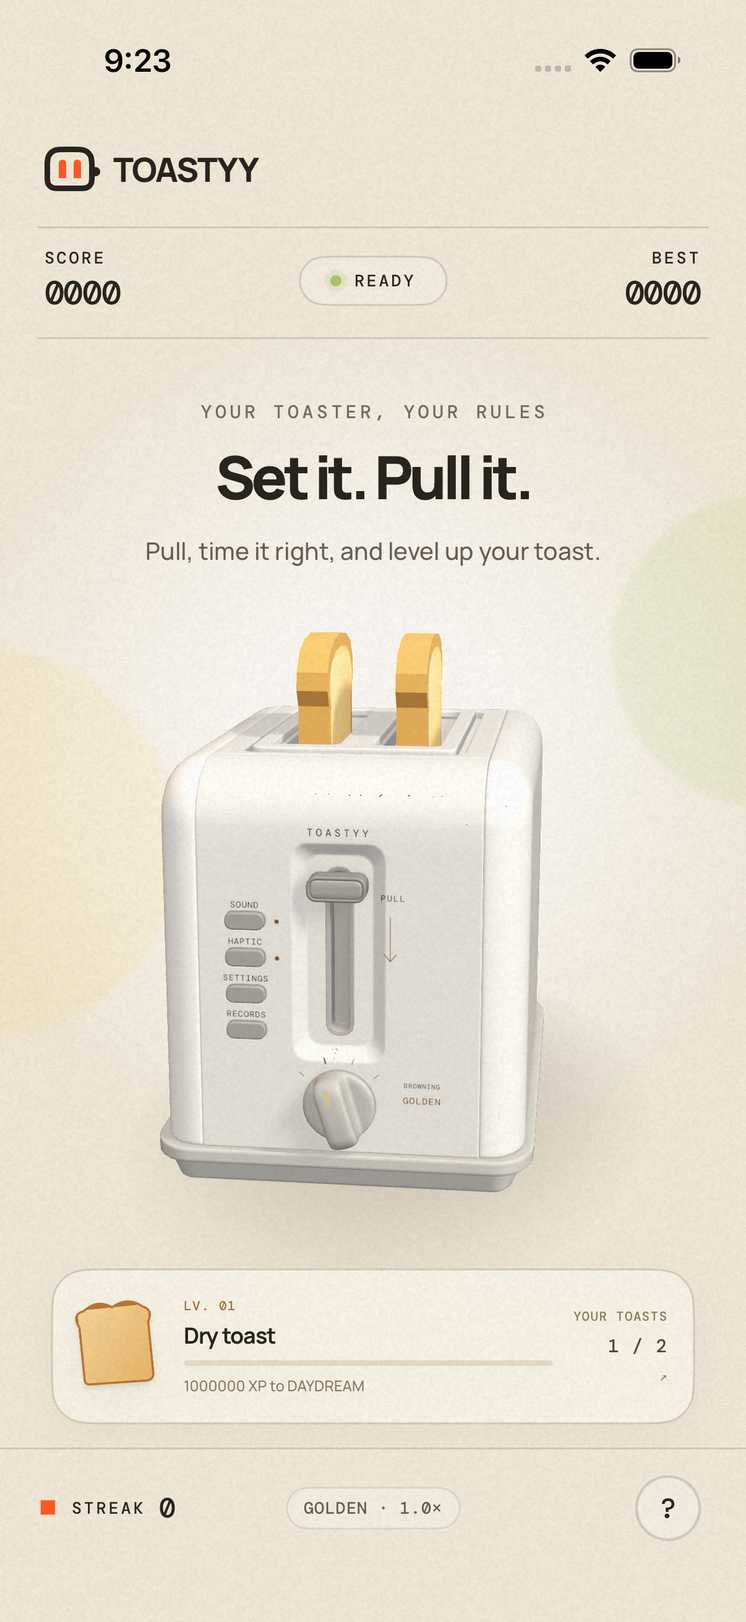
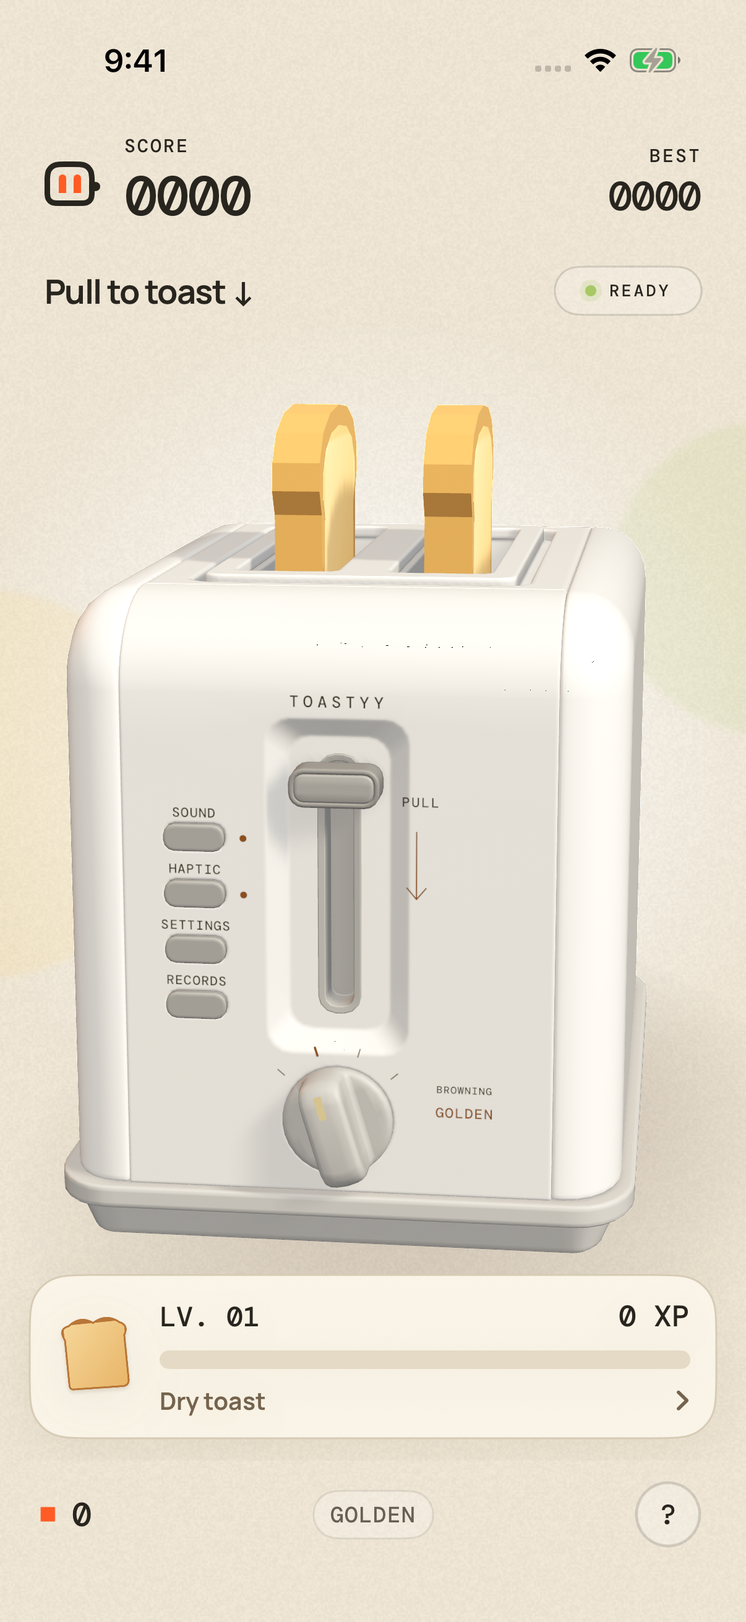
Prepare launch handoff, current store screenshots and owner checklist

diff --git a/ios/AppStore/launch-kit/todo.html b/ios/AppStore/launch-kit/todo.html
@@ -1,0 +1,5 @@
+<!doctype html><html lang="de"><head><meta charset="utf-8"><meta name="viewport" content="width=device-width,initial-scale=1"><title>Toastyy · Deine Launch-To-dos</title><style>
+:root{color-scheme:light dark;--background:light-dark(#f7f3e9,#171714);--foreground:light-dark(#29271f,#f5efdf);--muted:light-dark(#686354,#bbb49f);--card:light-dark(#fffaf0,#24231e);--border:light-dark(#ddd4c1,#494438);--primary:light-dark(#a83712,#ffac88);--success:light-dark(#496324,#c0d991);--radius:18px;--font-sans:system-ui,-apple-system,sans-serif}*{box-sizing:border-box}body{margin:0;color:var(--foreground);font-family:var(--font-sans);font-size:15px;line-height:1.55}.wrap{max-width:760px;margin:0 auto}header{padding:12px 0 18px}.eyebrow{color:var(--primary);font-size:11px;letter-spacing:.15em;font-weight:800}h1{font-size:clamp(29px,6vw,42px);line-height:1.1;letter-spacing:-.055em;margin:9px 0 12px}p{margin:9px 0}.muted{color:var(--muted)}.status{background:var(--card);padding:16px;border:1px solid var(--border);border-radius:var(--radius);margin:12px 0 22px}.status strong{color:var(--success)}.status p{margin:5px 0;font-size:13px}.progress-row{display:flex;justify-content:space-between;align-items:center;gap:12px;font-size:13px;margin:0 0 8px}progress{width:100%;height:9px;accent-color:var(--primary);display:block}.task{display:grid;grid-template-columns:24px 1fr;gap:12px;background:var(--card);padding:16px;border:1px solid var(--border);border-radius:var(--radius);margin:9px 0}.task>input{width:21px;height:21px;margin:17px 0 0;accent-color:var(--success);cursor:pointer}summary{cursor:pointer;list-style:none;display:flex;flex-direction:column;gap:3px;padding-right:20px;position:relative}summary::-webkit-details-marker{display:none}summary:after{content:'+';position:absolute;right:0;top:16px;color:var(--muted);font-size:21px}details[open] summary:after{content:'−'}.tag{color:var(--muted);font-size:10px;letter-spacing:.08em;text-transform:uppercase}.task-title{font-weight:700;font-size:16px;line-height:1.4}.task.done .task-title{text-decoration:line-through;color:var(--muted)}.detail{font-size:14px;padding-top:12px;color:var(--muted)}.detail strong{color:var(--foreground)}a{color:var(--primary);text-underline-offset:3px}code{font-size:12px;overflow-wrap:anywhere}.criterion{border-top:1px solid var(--border);padding-top:10px;color:var(--foreground)}.notes{margin-top:22px}label[for=notes]{font-weight:700}textarea{margin-top:8px;display:block;width:100%;min-height:95px;resize:vertical;border:1px solid var(--border);border-radius:12px;background:var(--card);color:var(--foreground);padding:12px;font:inherit}.actions{display:flex;flex-wrap:wrap;gap:9px;margin:14px 0}button,.button{font:inherit;border:1px solid var(--border);border-radius:10px;background:var(--card);color:var(--foreground);padding:9px 13px;cursor:pointer;text-decoration:none}.foot{font-size:12px;color:var(--muted);padding:6px 0 18px}:focus-visible{outline:3px solid var(--primary);outline-offset:4px}@media print{details>.detail{display:block}.actions{display:none}.task{break-inside:avoid}body{font-size:12px}}@media(max-width:430px){.task{padding:13px;gap:9px}.task-title{font-size:15px}}
+</style></head><body><main class="wrap"><header><span class="eyebrow">TOASTYY · RELEASE 1.0</span><h1>Dein Launch-Nachmittag.</h1><p class="muted">Die App steht. Hier sind die letzten Aufgaben – aufklappen, erledigen, abhaken.</p></header><section class="status" aria-label="Vorbereitungsstand"><strong>Vorbereitet: Build 5 hochgeladen, Screenshots und Texte fertig.</strong><p>16 Gameplay-Tests zuvor erfolgreich; beide aktuellen UI-Tests auf iPhone 17 Pro bestanden. Support-Seite, Publisher-Datei und Datenschutz-Arbeitsblatt liegen im Paket.</p><p>Offen: Apple-/Google-Anmeldung, Gerätetests, Website-Veröffentlichung und Produktionsfreigabe. Kontostatus/Apple-Verarbeitung heute nicht verifiziert. Stand: 10. November 2026.</p></section><div class="progress-row"><span id="count" role="status" aria-live="polite">0 von 8 erledigt</span><button type="button" id="expand">Alle öffnen</button></div><progress id="progress" max="8" value="0" aria-label="Dein Fortschritt"></progress><article class="task"><input type="checkbox" id="apple" aria-label="Erledigt: Apple anmelden &amp; Build 5 prüfen"><details><summary><span class="tag">Zugang</span><span class="task-title">Apple anmelden &amp; Build 5 prüfen</span></summary><div class="detail"><p>In App Store Connect anmelden, nötige Zwei-Faktor-Bestätigung selbst erledigen. Unter Toastyy → TestFlight prüfen, dass <strong>1.0.0 (5)</strong> verarbeitet und deiner internen Testgruppe zugewiesen ist. Bei fehlender Einladung deine Apple-ID als internen Tester zuordnen.</p><p><a href="https://appstoreconnect.apple.com/apps/6826357624/testflight/ios" target="_blank" rel="noopener">TestFlight öffnen ↗</a></p><p class="criterion">Erledigt, wenn Build 5 auf deinem iPhone installiert ist.</p></div></details></article><article class="task"><input type="checkbox" id="phone" aria-label="Erledigt: Die App auf deinem iPhone abnehmen"><details><summary><span class="tag">Gerätetest</span><span class="task-title">Die App auf deinem iPhone abnehmen</span></summary><div class="detail"><p>Bestehende Installation über TestFlight aktualisieren. XP/Rekorde müssen bleiben. Hebel tippen und ziehen, Kamerafahrt, alle Schwierigkeiten, Ton/Haptik und App-Wechsel prüfen.</p><p><strong>Wichtig:</strong> Doppeltippen direkt nach Start darf keine Punkte/XP bringen. Erst in den letzten 720 ms wird WAIT zu STOP. Zu spät führt zu verbranntem Toast.</p><p>Auch offline und mit „Bewegung reduzieren“ testen. <a href="device-test.de.md">Ausführliche Testliste</a></p><p class="criterion">Erledigt, wenn keine blockierenden Fehler auftreten; Auffälligkeiten unten notieren.</p></div></details></article><article class="task"><input type="checkbox" id="business" aria-label="Erledigt: Apple-Verträge &amp; EU-Händlerstatus abschließen"><details><summary><span class="tag">Account-Inhaber</span><span class="task-title">Apple-Verträge &amp; EU-Händlerstatus abschließen</span></summary><div class="detail"><p>In App Store Connect → Business den aktuellen Status prüfen. Falls noch offen: Paid Applications Agreement bestätigen und erforderliche Steuer-/Bankdaten ergänzen. Die EU-Händlerregistrierung inklusive E-Mail-/Telefon-/Identitätsprüfung abschließen.</p><p>Die früheren Unterlagen vermerkten offene Bestätigungen; der heutige Status ist ohne Anmeldung nicht geprüft.</p><p><a href="https://appstoreconnect.apple.com/business" target="_blank" rel="noopener">Business öffnen ↗</a> · <a href="https://developer.apple.com/help/app-store-connect/manage-compliance-information/manage-european-union-digital-services-act-trader-requirements/" target="_blank" rel="noopener">Apple-Hilfe ↗</a></p><p class="criterion">Erledigt, wenn relevante Verträge aktiv sind und Apple keine fehlenden Händler-/Zahlungsangaben meldet.</p></div></details></article><article class="task"><input type="checkbox" id="privacy" aria-label="Erledigt: Website &amp; Datenschutzhinweise veröffentlichen"><details><summary><span class="tag">Vorbereitet</span><span class="task-title">Website &amp; Datenschutzhinweise veröffentlichen</span></summary><div class="detail"><p>Support-Seite und app-ads.txt sind fertig. Im <a href="README.md">Release-Paket</a> stehen die konkreten Kopier- und Veröffentlichungsschritte. Der Toastyy-Datenschutzentwurf muss mit der tatsächlichen AdMob-Auswahl abgeglichen und in die bestehende Datenschutzerklärung integriert werden.</p><p>Danach Support-Seite öffentlich prüfen und die Support-URL in App Store Connect setzen. <code>/app-ads.txt</code> lieferte beim Check noch HTTP 404.</p><p><a href="website/toastyy-support.html">Support-Seite ansehen</a> · <a href="../privacy-addition.de.md">Datenschutzentwurf</a> · <a href="https://miomideal.com/privacy-policy" target="_blank" rel="noopener">Aktuelle Website ↗</a></p><p class="criterion">Erledigt, wenn die App-Hinweise, Support-Seite und Publisher-Datei öffentlich erreichbar und korrekt sind.</p></div></details></article><article class="task"><input type="checkbox" id="ads" aria-label="Erledigt: AdMob-Einwilligung &amp; Werbedaten abgleichen"><details><summary><span class="tag">Google-Anmeldung</span><span class="task-title">AdMob-Einwilligung &amp; Werbedaten abgleichen</span></summary><div class="detail"><p>In AdMob die Toastyy-App öffnen: <code>ca-app-pub-5162263720207671~7785962920</code>. Unter Privacy & messaging die passenden Nachrichten/Anbieter/Zwecke konfigurieren und veröffentlichen. Entwicklerwebsite und Store-App korrekt zuordnen; app-ads.txt-Verifizierung prüfen.</p><p>Auf dem iPhone Einwilligung akzeptieren, ablehnen und über Advertising Privacy Choices wieder öffnen, soweit erforderlich. Build 5 nutzt Testanzeigen. Anzeigen sind frühestens nach sechs Runden und zwei Minuten bei einer verbrannten Runde berechtigt.</p><p>Die endgültige Werbeauswahl mit Datenschutztext und Apples App-Privacy-Antworten abstimmen. <a href="app-privacy.de.md">Vorbereitetes Arbeitsblatt</a> · <a href="https://apps.admob.com/" target="_blank" rel="noopener">AdMob öffnen ↗</a></p><p class="criterion">Erledigt, wenn Einwilligung und Testanzeigen funktionieren und die tatsächliche Datennutzung dokumentiert ist.</p></div></details></article><article class="task"><input type="checkbox" id="iap" aria-label="Erledigt: Remove Ads kaufen &amp; wiederherstellen"><details><summary><span class="tag">TestFlight-Sandbox</span><span class="task-title">Remove Ads kaufen &amp; wiederherstellen</span></summary><div class="detail"><p>Einstellungen → Remove Ads: Preis muss laden. Sandbox-Kauf und Abbruch testen. Nach erfolgreichem Kauf dürfen keine Anzeigen mehr geladen/angezeigt werden. Danach Neustart und Restore Purchases mit demselben Apple-Account prüfen.</p><p>TestFlight-Käufe laufen in der Sandbox. Falls Produkt/Preis fehlen: Vertrag und Produkt <code>com.toastyy.app.removeads</code> in App Store Connect prüfen. Kauf stellt die werbefreie Berechtigung wieder her, keine XP.</p><p><a href="https://appstoreconnect.apple.com/apps/6826357624/distribution" target="_blank" rel="noopener">App Store Connect öffnen ↗</a></p><p class="criterion">Erledigt, wenn Kauf, Abbruch und Wiederherstellung auf dem echten iPhone funktionieren.</p></div></details></article><article class="task"><input type="checkbox" id="store" aria-label="Erledigt: Neue Screenshots &amp; Store-Angaben übernehmen"><details><summary><span class="tag">Upload bereit</span><span class="task-title">Neue Screenshots &amp; Store-Angaben übernehmen</span></summary><div class="detail"><p>Die vier aktualisierten PNGs liegen unter <code>ios/AppStore/screenshots/</code>: drei Store-Screenshots und ein Remove-Ads-Reviewbild. Format: 1206 × 2622, ohne Alpha. Die bisherigen Bilder in App Store Connect ersetzen.</p><p><code>listing.en-US.json</code> enthält passende Beschreibung und Review-Hinweise zum STOP-Fenster. <code>testflight-notes.en.txt</code> enthält die Testhinweise. App Privacy anhand der finalen Werbekonfiguration vervollständigen; nicht pauschal „Keine Daten erfasst“ wählen.</p><p><a href="../screenshots/01-ready.png">Ready</a> · <a href="../screenshots/02-toasting.png">Toasting</a> · <a href="../screenshots/03-collection.png">Collection</a> · <a href="../listing.en-US.json">Store-Texte</a></p><p class="criterion">Erledigt, wenn Bilder, Texte, Support-/Privacy-URL und App-Privacy-Angaben gespeichert sind.</p></div></details></article><article class="task"><input type="checkbox" id="release" aria-label="Erledigt: Produktionsbuild &amp; erste Prüfung abschließen"><details><summary><span class="tag">Nach den Tests</span><span class="task-title">Produktionsbuild &amp; erste Prüfung abschließen</span></summary><div class="detail"><p>Mit den Testergebnissen hier weitermachen: finalen Produktionsbuild mit neuer Buildnummer vorbereiten. Testanzeigen erst nach bestätigter AdMob-/Datenschutzkonfiguration abschalten; Produktionskonfiguration auf registrierten Testgeräten prüfen.</p><p>Verarbeiteten finalen Build auswählen und den ersten Remove-Ads-Kauf zur selben ersten App-Einreichung hinzufügen. Manuelle Veröffentlichung beibehalten. Dann App Review einreichen; nach Freigabe kannst du den Start auslösen.</p><p><strong>Build 5 ist der Testkandidat, kein bereits eingereichter Produktionsrelease.</strong> <a href="https://developer.apple.com/help/app-store-connect/manage-submissions-to-app-review/submit-an-in-app-purchase/" target="_blank" rel="noopener">Apple-Hilfe zur ersten IAP-Einreichung ↗</a></p><p class="criterion">Erledigt, wenn der geprüfte Produktionsbuild samt In-App-Kauf zur Prüfung eingereicht wurde.</p></div></details></article><section class="notes"><label for="notes">Deine Testnotizen</label><p class="muted" style="font-size:12px">Gerät, iOS-Version und Auffälligkeiten. Keine Zugangsdaten oder Codes.</p><textarea id="notes" placeholder="Zum Beispiel: iPhone … / iOS … / Kamerafahrt passt …"></textarea></section><div class="actions"><button type="button" id="export">Fortschritt exportieren</button><button type="button" id="import">Fortschritt laden</button><input id="file" type="file" accept="application/json,.json" hidden><button type="button" id="print">Drucken / PDF</button><a class="button" href="README.md">Zum Release-Paket</a></div><p id="storage" class="foot" role="status">Häkchen und Notizen werden nur in diesem Browser gespeichert. Für einen anderen Browser oder eine spätere Übergabe exportieren.</p></main><script>
+(()=>{'use strict';const key='toastyy-launch-1.0-build5-v1';const boxes=[...document.querySelectorAll('.task>input')];const notes=document.getElementById('notes');const state=()=>({version:1,build:5,checked:boxes.filter(b=>b.checked).map(b=>b.id),notes:notes.value});const paint=()=>{const n=boxes.filter(b=>b.checked).length;document.getElementById('count').textContent=n+' von '+boxes.length+' erledigt';document.getElementById('progress').value=n;boxes.forEach(b=>b.closest('.task').classList.toggle('done',b.checked))};const save=()=>{paint();try{localStorage.setItem(key,JSON.stringify(state()))}catch{document.getElementById('storage').textContent='Lokales Speichern ist hier nicht verfügbar. Bitte den Fortschritt exportieren.'}};const apply=s=>{if(!s||s.version!==1||s.build!==5||!Array.isArray(s.checked)||s.checked.some(x=>typeof x!=='string')||(s.notes!==undefined&&typeof s.notes!=='string'))throw Error('Ungültige Datei');boxes.forEach(b=>b.checked=s.checked.includes(b.id));notes.value=s.notes||'';paint()};try{const raw=localStorage.getItem(key);if(raw)apply(JSON.parse(raw))}catch{}boxes.forEach(b=>b.addEventListener('change',save));notes.addEventListener('input',save);document.getElementById('export').addEventListener('click',()=>{const url=URL.createObjectURL(new Blob([JSON.stringify(state(),null,2)],{type:'application/json'}));const a=document.createElement('a');a.href=url;a.download='toastyy-launch-fortschritt.json';a.click();setTimeout(()=>URL.revokeObjectURL(url),1000)});document.getElementById('import').addEventListener('click',()=>document.getElementById('file').click());document.getElementById('file').addEventListener('change',async e=>{const f=e.target.files[0];if(!f)return;try{apply(JSON.parse(await f.text()));save();document.getElementById('storage').textContent='Fortschritt geladen und lokal gespeichert.'}catch{document.getElementById('storage').textContent='Diese Datei ist keine gültige Toastyy-Checkliste für Build 5.'}e.target.value=''});document.getElementById('print').addEventListener('click',()=>{document.querySelectorAll('details').forEach(d=>d.open=true);window.print()});document.getElementById('expand').addEventListener('click',e=>{const all=[...document.querySelectorAll('details')];const open=all.some(d=>!d.open);all.forEach(d=>d.open=open);e.target.textContent=open?'Alle schließen':'Alle öffnen'});paint()})();
+</script></body></html>

diff --git a/ios/AppStore/launch-kit/website/toastyy-support.html b/ios/AppStore/launch-kit/website/toastyy-support.html
@@ -1,0 +1,9 @@
+<!doctype html>
+<html lang="en"><head><meta charset="utf-8"><meta name="viewport" content="width=device-width,initial-scale=1"><title>Toastyy Support · Mio Mideal</title><meta name="description" content="Help with Toastyy timing, sound, local progress and restoring Remove Ads."><style>
+:root{color-scheme:light;font-family:system-ui,sans-serif;color:#28251f;background:#f2e9d8}*{box-sizing:border-box}body{margin:0}main{max-width:760px;margin:0 auto;padding:48px 24px}header{margin-bottom:36px}h1{font-size:clamp(36px,8vw,64px);letter-spacing:-.06em;margin:10px 0}h2{font-size:21px;margin:0 0 12px}p,li{line-height:1.7}section{padding:24px;border:1px solid #d7cbb5;border-radius:20px;background:#faf5e8;margin:16px 0}a{color:#98360f;text-underline-offset:3px}a:focus-visible{outline:3px solid #ff5b24;outline-offset:4px}.brand{font-weight:800;letter-spacing:.14em;font-size:13px}footer{font-size:14px;margin-top:30px}
+</style></head><body><main><header><span class="brand">TOASTYY</span><h1>A little help with your toast.</h1><p>Contact <a href="mailto:legal@miomideal.com">legal@miomideal.com</a> for support. Include your app version, iPhone model, iOS version and steps to reproduce the issue. Please do not send passwords, verification codes or payment details.</p></header>
+<section><h2>How to play</h2><p>Turn the knob to choose difficulty and pull the lever. Wait for the orange button to change from WAIT to STOP, then tap the screen or STOP before the toast burns. Only the final 720 milliseconds accept a stop. Early taps keep the toaster running and earn nothing.</p><p>Save a slice to earn XP; a burnt slice earns 5 XP. DAYDREAM unlocks at 1,000,000 total XP.</p></section>
+<section><h2>Sound and haptics</h2><p>Toggle them independently in Settings. Sound follows your iPhone’s silent mode. Haptics require a supported physical device. The app respects Reduce Motion.</p></section>
+<section><h2>Restore Remove Ads</h2><p>Open Settings → Restore Purchases using the Apple Account that bought Remove Ads. It is a one-time purchase, with no subscription. Contact <a href="https://reportaproblem.apple.com/">Apple for billing and refunds</a>.</p><p>Your XP and records are stored on your device. Deleting the app can remove this progress. Restoring a purchase restores the ad-free entitlement, not your XP.</p></section>
+<section><h2>Advertising and privacy</h2><p>The game remains playable when an ad cannot load. Where required, Settings includes Advertising Privacy Choices. To report an inappropriate ad, use its reporting controls or contact support with the advertiser name, approximate time and a screenshot.</p><p><a href="https://miomideal.com/privacy-policy">Privacy policy</a></p></section>
+<footer><a href="https://miomideal.com/legal-notice">Legal notice</a> · <a href="https://miomideal.com/">Mio Mideal</a></footer></main></body></html>

diff --git a/ios/ToastyyUITests/ToastyyUITests.swift b/ios/ToastyyUITests/ToastyyUITests.swift
@@ -56,8 +56,10 @@ final class ToastyyUITests: XCTestCase {
         let app = launch()
         let lever = waitForLever(app)
         let handle = lever.coordinate(withNormalizedOffset: CGVector(dx: 0.5, dy: 0.5))
-        handle.press(forDuration: 0.1, thenDragTo: handle.withOffset(CGVector(dx: 0, dy: 110)))
-        XCTAssertTrue(app.buttons["stopButton"].waitForExistence(timeout: 2))
+        handle.press(forDuration: 0.1, thenDragTo: handle.withOffset(CGVector(dx: 0, dy: 180)))
+        let status = app.descendants(matching: .any)["gameStatus"]
+        expectation(for: NSPredicate(format: "value == 'Toasting' OR value == 'Almost'"), evaluatedWith: status)
+        waitForExpectations(timeout: 2)
         attach(app, "Native toaster — toasting")
         XCTAssertTrue(app.staticTexts["BURNT"].waitForExistence(timeout: 5))
         attach(app, "Native toaster — burnt")

diff --git a/ios/AppStore/launch-kit/README.md b/ios/AppStore/launch-kit/README.md
@@ -1,0 +1,50 @@
+# Toastyy · Release-Paket
+
+Stand: 10. November 2026. TestFlight 1.0.0 (5) wurde erfolgreich hochgeladen.
+Apple-Verarbeitungsstatus und Testgruppen sind ohne erneute Anmeldung nicht geprüft.
+
+## Vorbereitet
+
+- `../listing.en-US.json`: Store-Beschreibung und Review-Hinweise passend zum 720-ms-Fenster.
+- `testflight-notes.en.txt`: kopierfertige TestFlight-Testhinweise.
+- `device-test.de.md`: Abnahme auf einem echten iPhone.
+- `app-privacy.de.md`: Arbeitsblatt zur App-Privacy-Deklaration.
+- `website/toastyy-support.html`: fertige Support-Seite, ohne Tracking oder externe Assets.
+- `website/app-ads.txt`: AdMob-Publisher-Eintrag für die Domain-Wurzel.
+- `../privacy-addition.de.md`: vorhandener Entwurf; erst mit der finalen Werbekonfiguration abgleichen.
+- `../screenshots/`: aktuelle, unveränderte 1206 × 2622 PNGs aus erfolgreichen UI-Tests.
+  Keine Alpha-Kanäle; `screenshot-manifest.json` enthält Prüfsummen. Noch nicht hochgeladen.
+- `todo.html`: persönliche Checkliste mit lokal gespeicherten Häkchen und Export.
+
+## Website veröffentlichen
+
+Das lokale Website-Projekt liegt unter `/Users/heroine/ras/dev/mio/mio_page`.
+Dort liegen fremde, noch nicht committete Änderungen. Deshalb wurde keine
+Website-Veröffentlichung oder Änderung an diesen Arbeiten vorgenommen.
+
+1. `website/toastyy-support.html` nach `mio_page/public/toastyy-support.html` kopieren.
+2. `website/app-ads.txt` nach `mio_page/public/app-ads.txt` kopieren. Vorhandene Publisher-Zeilen erhalten.
+3. Die geprüfte Toastyy-Ergänzung in `mio_page/src/app/privacy-policy/page.tsx` einbauen.
+   Die Aussage zu fehlenden Marketing-Cookies ausdrücklich auf die Website begrenzen.
+4. Gezielt Website-Änderungen prüfen und deployen; keine fremden Änderungen blind mit veröffentlichen.
+5. Öffentlich prüfen:
+   - `https://miomideal.com/toastyy-support.html` zeigt die Support-Seite.
+   - `https://miomideal.com/app-ads.txt` liefert den Publisher-Eintrag als Text.
+   - `https://miomideal.com/privacy-policy` enthält die geprüfte Toastyy-Ergänzung.
+6. Erst dann in App Store Connect die Support-URL auf die neue Seite ändern.
+   In AdMob die Store-App und Entwicklerwebsite korrekt zuordnen und Verifizierung anstoßen.
+
+## Finale Veröffentlichung
+
+Build 5 nutzt weiterhin **Testanzeigen**. Er wurde nicht zur öffentlichen App-Prüfung eingereicht.
+Nach Konto-, Datenschutz-, UMP- und Gerätetests einen neuen Produktionsbuild mit
+neuer Buildnummer erstellen; Testanzeigen erst nach vollständiger Konfiguration
+abschalten. Produktionswerbung beim Test nur mit registrierten Testgeräten prüfen.
+Den ersten Remove-Ads-In-App-Kauf mit der ersten App-Version einreichen.
+Manuelle Freigabe in App Store Connect beibehalten.
+
+## Zugriffe
+
+App Store Connect und AdMob zeigten beim heutigen Check jeweils die Anmeldeseite.
+Kein Accountstatus, Vertrag, Datenschutzeintrag oder Store-Screenshot wurde in
+App Store Connect verändert. Keine privaten Schlüssel oder Zugangsdaten liegen im Paket.

diff --git a/ios/AppStore/launch-kit/app-privacy.de.md b/ios/AppStore/launch-kit/app-privacy.de.md
@@ -1,0 +1,28 @@
+# App Privacy – Arbeitsblatt, noch nicht in Apple veröffentlicht
+
+Stand: 10. November 2026 · Build 5 · Google Mobile Ads 13.11.0 / UMP 3.1.0.
+
+Die App speichert XP, Rekorde und Einstellungen lokal. Daraus folgt NICHT „Keine Daten erfasst“, sobald das Werbe-SDK läuft. Kein Firebase Analytics und keine eigene Spielstand-API sind eingebunden. StoreKit prüft verifizierte Käufe; Kartendaten gehen nicht an Toastyy.
+
+## Vor dem Ausfüllen verbindlich abgleichen
+
+1. AdMob → Privacy & messaging: veröffentlichte Nachrichten und Anbieter/Zwecke ansehen. Auswahl von personalisierter/nicht personalisierter Werbung sowie etwaige Mediation dokumentieren.
+2. Aktuelle Google-Offenlegung und die tatsächlich gebündelten SDK-Manifeste gemeinsam prüfen. Googles aktuelle Online-Seite kann sich auf eine neuere SDK-Version beziehen.
+3. In App Store Connect → App Privacy Zwecke, Nutzerverknüpfung und Tracking pro Datentyp wahrheitsgemäß beantworten. Fehlende ATT-Abfrage beweist keine Tracking-Freiheit.
+4. Datenschutzerklärung und App-Privacy-Einträge an dieselbe Endkonfiguration anpassen. Erst danach veröffentlichen.
+
+## Zu prüfende Datentypen
+
+- Ungefährer Standort (z. B. aus IP-Adresse)
+- Geräte-/App-Kennungen
+- Werbedaten und Produktinteraktion
+- Absturz-, Leistungs- und andere Diagnosedaten
+
+Die gebündelten Angaben stehen in ../sdk-privacy-manifests.json. Angaben wie linked/tracking und Zwecke nicht pauschal für alle Typen übernehmen. Google nennt für das SDK Werbung und Analytics-Zwecke; die finale App-Konfiguration muss berücksichtigt werden.
+
+Quellen:
+- https://developers.google.com/admob/ios/privacy/data-disclosure
+- https://developers.google.com/admob/ios/privacy
+- https://developer.apple.com/app-store/app-privacy-details/
+
+Status: vorbereitet; Kontoanmeldung und finale Werbekonfiguration fehlen. Keine Datenschutzangaben wurden verändert oder veröffentlicht.

diff --git a/ios/AppStore/launch-kit/device-test.de.md b/ios/AppStore/launch-kit/device-test.de.md
@@ -1,0 +1,19 @@
+# Gerätetest · Toastyy 1.0.0 (5)
+
+Datum / iPhone / iOS: ____________________
+
+- [ ] Update über TestFlight: vorhandene XP, Rekorde und Einstellungen bleiben erhalten. Nicht vorher löschen.
+- [ ] Start durch Tippen und Ziehen des Hebels; alle vier Schwierigkeitsstufen testen.
+- [ ] Toaster bleibt nach der Drehung zentriert; Knopf, Hebel, STOP und XP werden nicht abgeschnitten.
+- [ ] Sofortiger Doppeltipp: Runde läuft weiter, keine Punkte/XP. Erst bei STOP zählen kurze Bildschirmtipps.
+- [ ] Zu spät: Toast verbrennt; nächster Versuch startet normal.
+- [ ] Ton/Haptik getrennt schalten; Stummmodus; App wechseln, sperren, fortsetzen und neu starten.
+- [ ] Einstellungen → Remove Ads: Preis lädt, Sandbox-Kauf abschließen und Abbruch prüfen. TestFlight-Käufe sind Sandbox-Käufe.
+- [ ] Restore Purchases mit demselben Apple-Account: werbefrei bleibt aktiv. Kauf stellt keine XP wieder her.
+- [ ] Werbung vor dem Kauf prüfen: mindestens sechs abgeschlossene Runden, zwei Minuten seit Start/letzter Anzeige, dann verbrannte Runde. Nur Testanzeigen in Build 5.
+- [ ] Einwilligung akzeptieren, ablehnen und – soweit vorgeschrieben – über Advertising Privacy Choices erneut öffnen. Spiel bleibt bei fehlender Werbung/Offline nutzbar.
+- [ ] Nach verifiziertem Remove Ads keine Anzeigen. Erneuter App-Start behält Berechtigung.
+- [ ] Ohne Netzwerk starten/spielen; Kauf- und Datenschutzfehler lassen sich schließen.
+- [ ] Systemeinstellung „Bewegung reduzieren“: keine Kamerafahrt, Bedienelemente bleiben passend.
+
+Fehler bitte mit Version, Gerät, Schritten und Screenshot festhalten. Keine Passwörter, Belege mit Zahlungsdaten oder Codes in Notizen speichern.

diff --git a/ios/AppStore/README.md b/ios/AppStore/README.md
@@ -1,6 +1,29 @@
 # App Store submission preparation
 
-Prepared on 2026-10-23 for App Store Connect app 6826357624.
+Prepared for App Store Connect app 6826357624.
+
+## Latest handoff · 2026-11-10
+
+- TestFlight 1.0.0 (5) uploaded successfully with the approved enlarged toaster,
+  final-720-ms stop window, and centered active camera.
+- App Store Connect and AdMob require a fresh browser login. Processing,
+  test-group assignment, contracts and account changes could not be verified.
+- Current screenshots in `screenshots/` replace the old local assets. All four
+  are unmodified 1206 × 2622 PNGs with no alpha, captured from successful UI
+  tests on iPhone 17 Pro / iOS 26.5. Their upload to Apple is still pending.
+- Review notes and description now explain WAIT → STOP and ignored early taps.
+- `launch-kit/todo.html` is the interactive owner checklist. The directory also
+  contains test notes, device checks, App Privacy worksheet and ready support
+  website / app-ads.txt files with deployment instructions.
+- Public app-ads.txt returned HTTP 404; privacy page still presents itself as
+  website privacy. Neither website nor account configuration was published.
+- Both current UI tests passed. The larger-phone drag test now travels 180 pt
+  and verifies the game status, rather than treating the hidden STOP button as
+  proof that a round started. App code is unchanged from uploaded build 5.
+
+The historical preparation below remains a record, not a fresh account audit.
+
+## Earlier account preparation · 2026-10-23
 No submission has been sent for App Review.
 
 ## Prepared in App Store Connect

diff --git a/ios/TESTFLIGHT.md b/ios/TESTFLIGHT.md
@@ -64,8 +64,8 @@ user data, signing certificates, provisioning profiles, or private keys.
 - The repository includes an app icon, launch configuration, privacy manifest,
   version/build settings, and an archive-enabled shared scheme.
 - The project uses team `9XGAA62775` and bundle identifier `com.toastyy.app`,
-  matching App Store Connect app `6826357624`. Version 1.0.0 build 4 contains
-  the enlarged-toaster design. Increment the build number for later uploads.
+  matching App Store Connect app `6826357624`. Version 1.0.0 build 5 contains
+  the enlarged toaster, final stop window and active camera tracking. Increment the build number for later uploads.
 - The GitHub workflow builds/tests the simulator app. It does **not** sign,
   archive, or upload to TestFlight. Automated uploads can be configured after
   the first working signed upload.

diff --git a/ios/AppStore/support-page.en.md b/ios/AppStore/support-page.en.md
@@ -8,8 +8,10 @@ description of the issue. Never send passwords or payment details.
 
 ## How to play
 
-Turn the knob to select difficulty, pull the lever, and stop the toaster before
-the toast burns. Each attempt earns XP. DAYDREAM unlocks at 1,000,000 total XP.
+Turn the knob to select difficulty and pull the lever. Wait until the orange
+button changes from WAIT to STOP, then tap the screen or STOP before the toast
+burns. Stops count only in the final 720 milliseconds. Early taps keep toasting
+and earn nothing. A successful stop earns XP; a burnt slice earns 5 XP. DAYDREAM unlocks at 1,000,000 total XP.
 
 ## Sound and haptics
 
